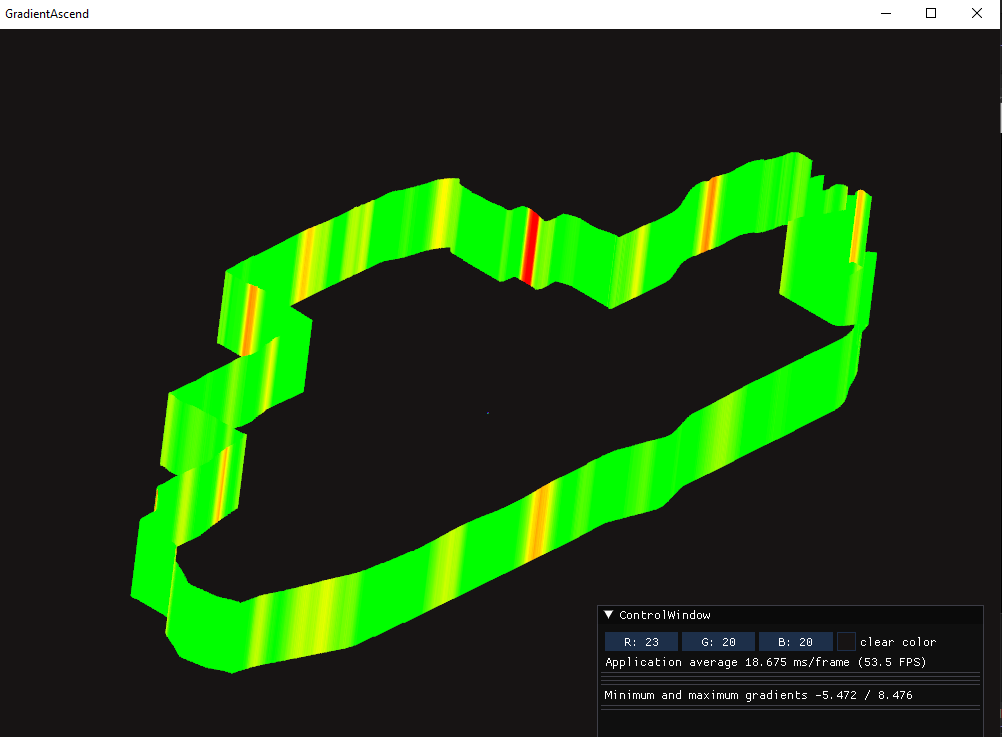
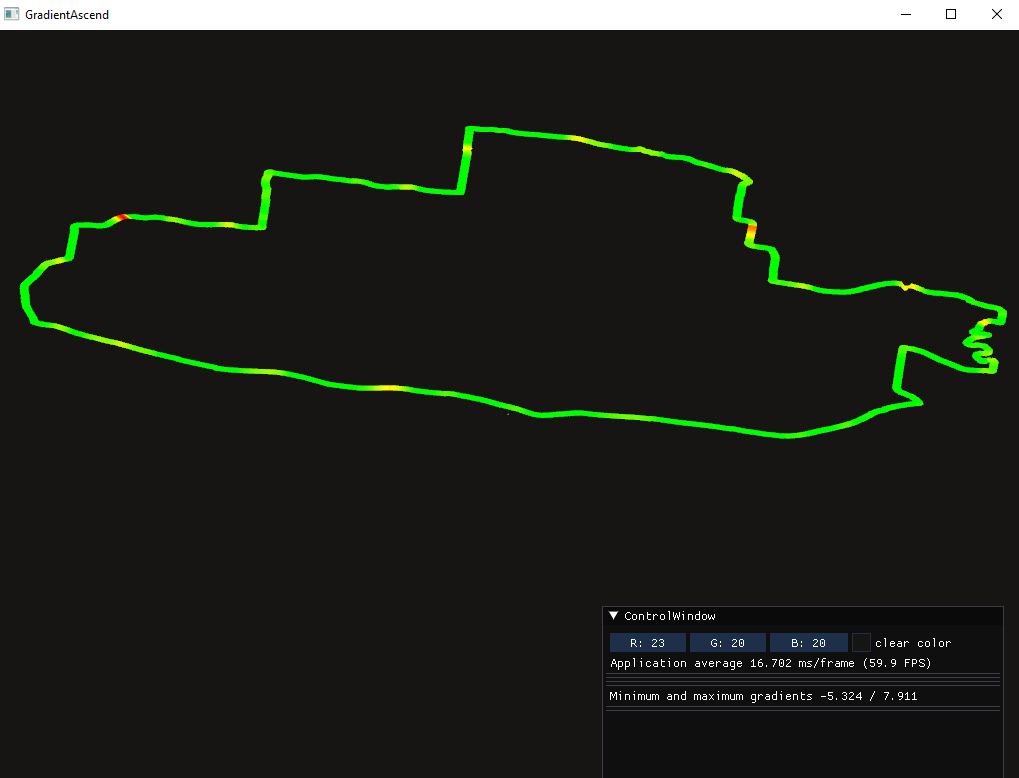
added distance calculation between each pair of consecutive GPS locations in a route.
changed the track drawing from vertical to horizontal, representating the road.

diff --git a/source/data_handle/sources/routePreview.cpp b/source/data_handle/sources/routePreview.cpp
@@ -7,7 +7,14 @@
 #include <glm/gtc/matrix_transform.hpp>
 #include <glm/gtc/type_ptr.hpp>
 
-RoutePreview::RoutePreview(std::vector<std::tuple<int, int, float, float>>& rt) : routeData(rt)
+struct RoadVertex
+{
+    glm::vec3 left;
+    glm::vec3 right;
+    RGBA color;
+};
+
+RoutePreview::RoutePreview(std::vector<std::tuple<int, int, float, float, float>>& rt) : routeData(rt)
 {
 }
 
@@ -21,14 +28,16 @@ RoutePreview::~RoutePreview()
 
 void RoutePreview::Setup()
 {
+
 #ifdef _WIN32	
-    program_id = LoadShaders(".\\shaders\\axisPlane.vert", ".\\shaders\\axisPlane.frag");
+    program_id = LoadShaders(".\\shaders\\axisPlane.vert", ".\\shaders\\axisPlane.frag"); 
 #elif defined (__linux__)
-	program_id = LoadShaders("./shaders/axisPlane.vert", "./shaders/axisPlane.frag");
+     program_id = LoadShaders("./shaders/axisPlane.vert", "./shaders/axisPlane.frag"); 
 #endif
 
     float offsetX = 0.0f;
     float offsetY = 0.0f;
+    float trackWidth = 10.0f;
 
     if (!routeData.empty())
     {
@@ -45,79 +54,100 @@ void RoutePreview::Setup()
         offsetY = sumY / routeData.size();
     }
 
-    float maxGradient = getMaxRouteGradient(routeData) * 0.75f;
-
-    location.reserve(routeData.size() * 18);
-    color.reserve(routeData.size() * 24);
-
-    auto t1 = routeData.front();
-
-    float scale = 0.5f;
-
-    float prevReal = 0.0f;
-
-    for (auto it = routeData.begin() + 1; it != routeData.end(); ++it)
+    float maxGradient = getMaxRouteGradient(routeData);
+    size_t n = routeData.size();
+    if (n < 2)
     {
-        auto t2 = *it;
+        return;
+    }
 
-        location.push_back(std::get<0>(t1) - offsetX);
-        location.push_back(std::get<1>(t1) - offsetY);
-        location.push_back(0);
+    float halfWidth = trackWidth / 2.0f;
 
-        RGBA t1color = gradientToColor(std::get<3>(t1), maxGradient);
+    auto safeNormalize = [](const glm::vec2& v) 
+                            {
+                                float len = glm::length(v);
+                                if (len < 1e-5f) 
+                                {
+                                    return glm::vec2(1.0f, 0.0f);
+                                }
+                                    return v / len;
+                            };
 
-        color.insert(color.end(), { t1color.r, t1color.g, t1color.b, t1color.a });
+    auto getPerpendicular = [&](size_t idx1, size_t idx2) 
+                        {
+                            const auto& p1 = routeData[idx1];
+                            const auto& p2 = routeData[idx2];
+                            glm::vec2 diff(static_cast<float>(std::get<0>(p2) - std::get<0>(p1)),
+                                            static_cast<float>(std::get<1>(p2) - std::get<1>(p1)));
+                            glm::vec2 dir = safeNormalize(diff);
+                            return glm::vec2(-dir.y, dir.x);
+                        };
 
-        location.push_back(std::get<0>(t2) - offsetX);
-        location.push_back(std::get<1>(t2) - offsetY);
-        location.push_back(0);
+    std::vector<RoadVertex> roadVertices;
+    roadVertices.reserve(n);
 
-        RGBA t2color = gradientToColor(std::get<3>(t2), maxGradient);
-
-        color.insert(color.end(), { t2color.r, t2color.g, t2color.b, t2color.a });
-
-        location.push_back(std::get<0>(t1) - offsetX);
-        location.push_back(std::get<1>(t1) - offsetY);
-
-        float t = std::get<2>(t1);
-        
-        if (t < 0)
-            t = prevReal;
+    for (size_t i = 0; i < n; ++i)
+    {
+        glm::vec2 normal;
+        if (i == 0)
+        {
+            normal = getPerpendicular(0, 1);
+        }
+        else if (i == n - 1)
+        {
+            normal = getPerpendicular(n - 2, n - 1);
+        }
         else
-            prevReal = t;
+        {
+            glm::vec2 n1 = getPerpendicular(i - 1, i);
+            glm::vec2 n2 = getPerpendicular(i, i + 1);
+            normal = safeNormalize(n1 + n2);
+        }
 
-        location.push_back(t * scale);
+        const auto& pt = routeData[i];
+        float t = static_cast<float>(std::get<2>(pt));
+        glm::vec3 pos(
+            static_cast<float>(std::get<0>(pt)) - offsetX,
+            static_cast<float>(std::get<1>(pt)) - offsetY,
+            t
+        );
 
-        color.insert(color.end(), { t1color.r, t1color.g, t1color.b, t1color.a });
+        glm::vec3 left = pos + glm::vec3(normal * halfWidth, 0.0f);
+        glm::vec3 right = pos - glm::vec3(normal * halfWidth, 0.0f);
+        left.z = pos.z;
+        right.z = pos.z;
 
-        location.push_back(std::get<0>(t1) - offsetX);
-        location.push_back(std::get<1>(t1) - offsetY);
-        location.push_back(t * scale);
+        RGBA col = gradientToColor(std::get<3>(pt), maxGradient);
+        roadVertices.push_back({ left, right, col });
+    }
 
-        color.insert(color.end(), { t1color.r, t1color.g, t1color.b, t1color.a });
+    location.reserve(roadVertices.size() * 18);
+    color.reserve(roadVertices.size() * 24);
 
-        location.push_back(std::get<0>(t2) - offsetX);
-        location.push_back(std::get<1>(t2) - offsetY);
-        location.push_back(0);
+    for (size_t i = 0; i < roadVertices.size() - 1; ++i)
+    {
+        const auto& curr = roadVertices[i];
+        const auto& next = roadVertices[i + 1];
 
-        color.insert(color.end(), { t2color.r, t2color.g, t2color.b, t2color.a });
+        // Triangle 1: curr.left -> next.left -> next.right
+        location.insert(location.end(), { curr.left.x, curr.left.y, curr.left.z });
+        color.insert(color.end(), { curr.color.r, curr.color.g, curr.color.b, curr.color.a });
 
-        location.push_back(std::get<0>(t2) - offsetX);
-        location.push_back(std::get<1>(t2) - offsetY);
+        location.insert(location.end(), { next.left.x, next.left.y, next.left.z });
+        color.insert(color.end(), { next.color.r, next.color.g, next.color.b, next.color.a });
 
-        t = std::get<2>(t2);
+        location.insert(location.end(), { next.right.x, next.right.y, next.right.z });
+        color.insert(color.end(), { next.color.r, next.color.g, next.color.b, next.color.a });
 
-        if (t < 0)
-            t = prevReal;
-        else
-            prevReal = t;
+        // Triangle 2: curr.left -> next.right -> curr.right
+        location.insert(location.end(), { curr.left.x, curr.left.y, curr.left.z });
+        color.insert(color.end(), { curr.color.r, curr.color.g, curr.color.b, curr.color.a });
 
+        location.insert(location.end(), { next.right.x, next.right.y, next.right.z });
+        color.insert(color.end(), { next.color.r, next.color.g, next.color.b, next.color.a });
 
-        location.push_back(t * scale);
-
-        color.insert(color.end(), { t2color.r, t2color.g, t2color.b, t2color.a });
-
-        t1 = t2;
+        location.insert(location.end(), { curr.right.x, curr.right.y, curr.right.z });
+        color.insert(color.end(), { curr.color.r, curr.color.g, curr.color.b, curr.color.a });
     }
 
     glGenVertexArrays(1, vertex_array_id);

diff --git a/source/data_handle/main.cpp b/source/data_handle/main.cpp
@@ -38,10 +38,10 @@ int main()
 	GDALAllRegister();
 
 	//fs::path testgpxpath(R"(D:\Files\GradientAscent\data\Afternoon_Ride.gpx)");
-	fs::path testgpxpath(R"(D:\Files\GradientAscent\data\Lunch_Ride.gpx)");
-	//fs::path testgpxpath(R"(D:\Files\GradientAscent\data\Afternoon_Ride_09272026.gpx)");
+	//fs::path testgpxpath(R"(D:\Files\GradientAscent\data\Lunch_Ride.gpx)");
+	fs::path testgpxpath(R"(D:\Files\GradientAscent\data\Afternoon_Ride_09272026.gpx)");
 
-	std::vector<std::tuple<int, int, float, float>> routeData;
+	std::vector<std::tuple<int, int, float, float, float>> routeData;
 
 	try
 	{
@@ -65,6 +65,8 @@ int main()
 		float lastvalidElevation = std::numeric_limits<float>::quiet_NaN();;
 		//int line = 0;
 		//std::ofstream elevationFile("elevation.csv", std::ios::trunc);
+
+		int row_last = -9999, col_last = -9999;
 
 		for (auto& t : trackpoints)
 		{
@@ -100,14 +102,20 @@ int main()
 
 			GEO_DATA_ERROR pixelError = tiffHandler.getPixelCoordinate(t.lat, t.lon, row, col);
 
-			if (pixelError == GEO_DATA_ERROR::GEO_DATA_NO_ERROR)
+			bool samePoint = (row == row_last && col == col_last);
+
+
+			if (pixelError == GEO_DATA_ERROR::GEO_DATA_NO_ERROR && !samePoint)
 			{
-				float gradient;
-				computeGradient(tp, t, gradient);
-				routeData.push_back({ row, col, elevation, gradient });
+				float gradient, distance;
+				computeGradientDistance(tp, t, gradient, distance);
+				routeData.push_back({ row, col, elevation, gradient, distance });
 			}
 
 			tp = t;
+
+			row_last = row;
+			col_last = col;
 		}
 
 		std::cout << std::format("Saved points: {} vs reserved {}\n", routeData.size(), routeData.capacity());

diff --git a/include/utilities.h b/include/utilities.h
@@ -81,7 +81,7 @@ inline RGBA gradientToColor(float percentGrade, float maxExpectedGrade = 20.0f)
 	return hsvToRgb(hue, 1.0f, 1.0f);
 }
 
-inline float getMinRouteGradient(const std::vector<std::tuple<int, int, float, float>>& rt)
+inline float getMinRouteGradient(const std::vector<std::tuple<int, int, float, float, float>>& rt)
 {
 	auto maxIt = std::ranges::min_element(rt,
 		{}, [](const auto& t)
@@ -92,7 +92,7 @@ inline float getMinRouteGradient(const std::vector<std::tuple<int, int, float, f
 	return std::get<3>(*maxIt);
 }
 
-inline float getMaxRouteGradient(const std::vector<std::tuple<int, int, float, float>>& rt)
+inline float getMaxRouteGradient(const std::vector<std::tuple<int, int, float, float, float>>& rt)
 {
 	auto maxIt = std::ranges::max_element(rt, 
 										{}, [](const auto& t) 
@@ -114,7 +114,7 @@ inline float getMeanRouteGradient(const std::vector<std::tuple<int, int, float, 
 	return mean;
 }
 
-inline void smoothGradient(std::vector<std::tuple<int, int, float, float>>& rt, size_t windowSize = 21)
+inline void smoothGradient(std::vector<std::tuple<int, int, float, float, float>>& rt, size_t windowSize = 21)
 {
 	if (rt.empty()) return;
 

diff --git a/include/geo_data_handler.h b/include/geo_data_handler.h
@@ -263,7 +263,7 @@ inline float toRadians(float degree)
 	return degree * M_PI / 180.0f;
 }
 
-GEO_DATA_ERROR computeGradient(trackpoint& first, trackpoint& second, float& gradient)
+GEO_DATA_ERROR computeGradientDistance(trackpoint& first, trackpoint& second, float& gradient, float& distance)
 {
 	float rise = second.elevation - first.elevation;
 
@@ -280,6 +280,8 @@ GEO_DATA_ERROR computeGradient(trackpoint& first, trackpoint& second, float& gra
 
 	float c = 2.0f * std::atan2(std::sqrt(a), std::sqrt(1.0f - a));
 	float run = EARTH_R * c; // horizontal distance in meters
+
+	distance = run;
 
 	// Handle edge case where points are in the exact same horizontal spot
 	if (run == 0.0f) 

diff --git a/source/data_handle/include/routePreview.h b/source/data_handle/include/routePreview.h
@@ -18,10 +18,10 @@ private:
     std::vector<GLfloat> location;
     std::vector<GLfloat> color;
 
-    std::vector<std::tuple<int, int, float, float>> routeData;
+    std::vector<std::tuple<int, int, float, float, float>> routeData;
 public:
 
-    RoutePreview(std::vector<std::tuple<int, int, float, float>> &routeData);
+    RoutePreview(std::vector<std::tuple<int, int, float, float, float>> &routeData);
     ~RoutePreview();
 
     void SetProjection(glm::mat4 p);
